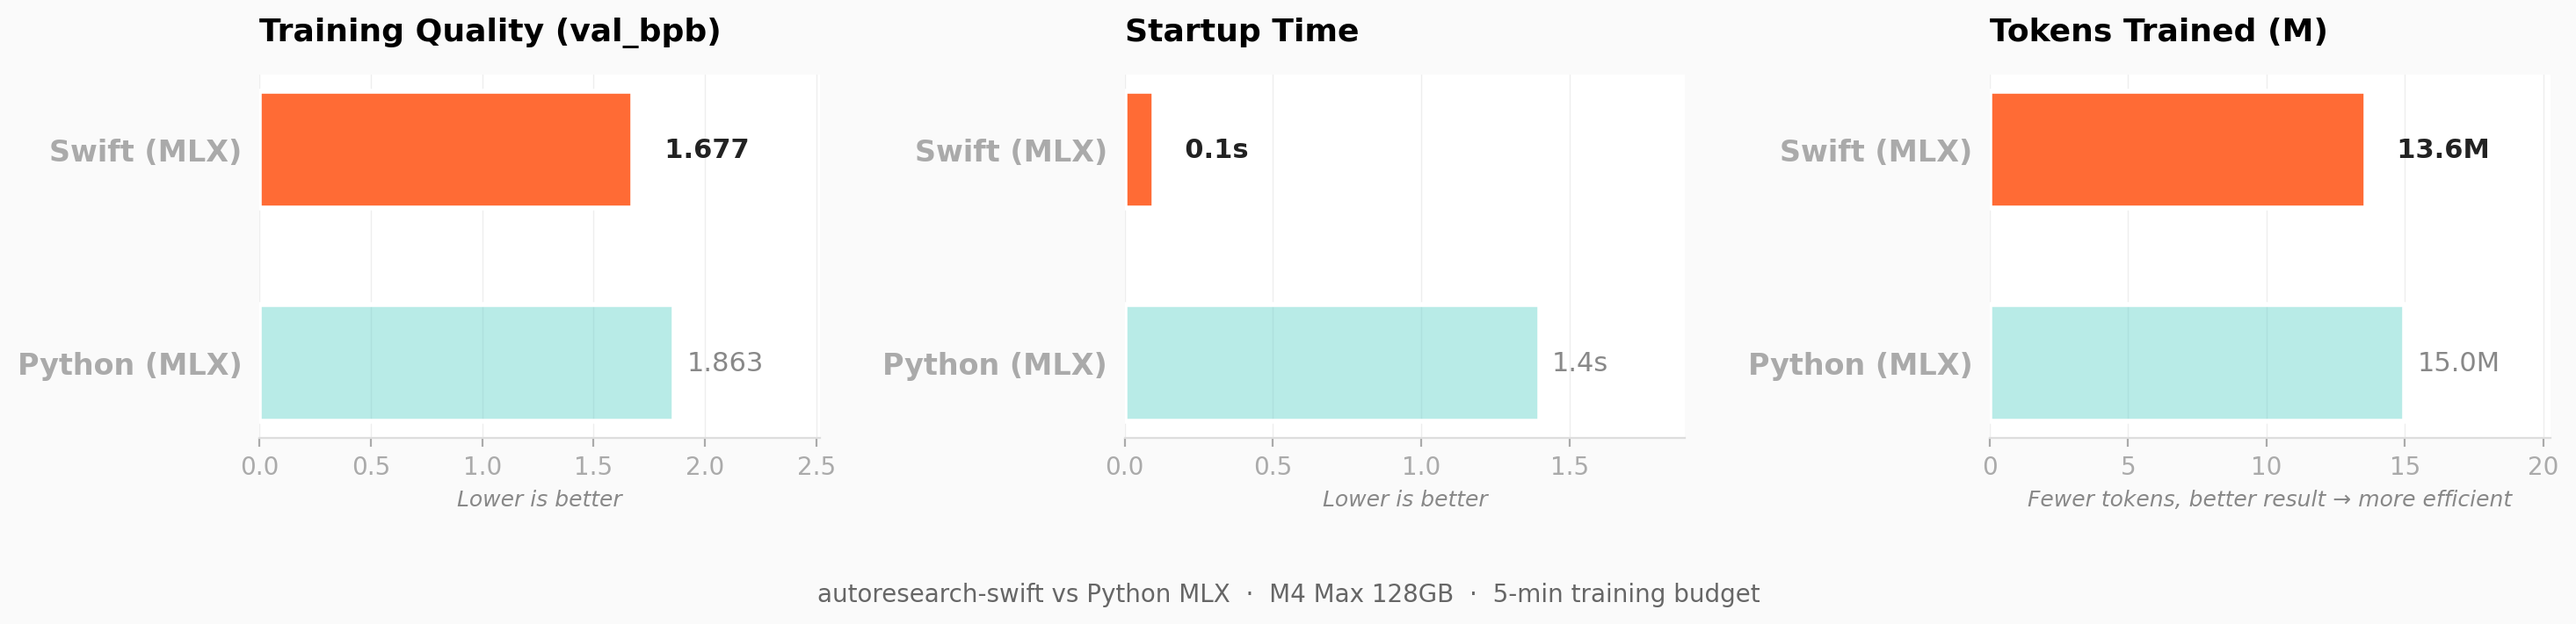
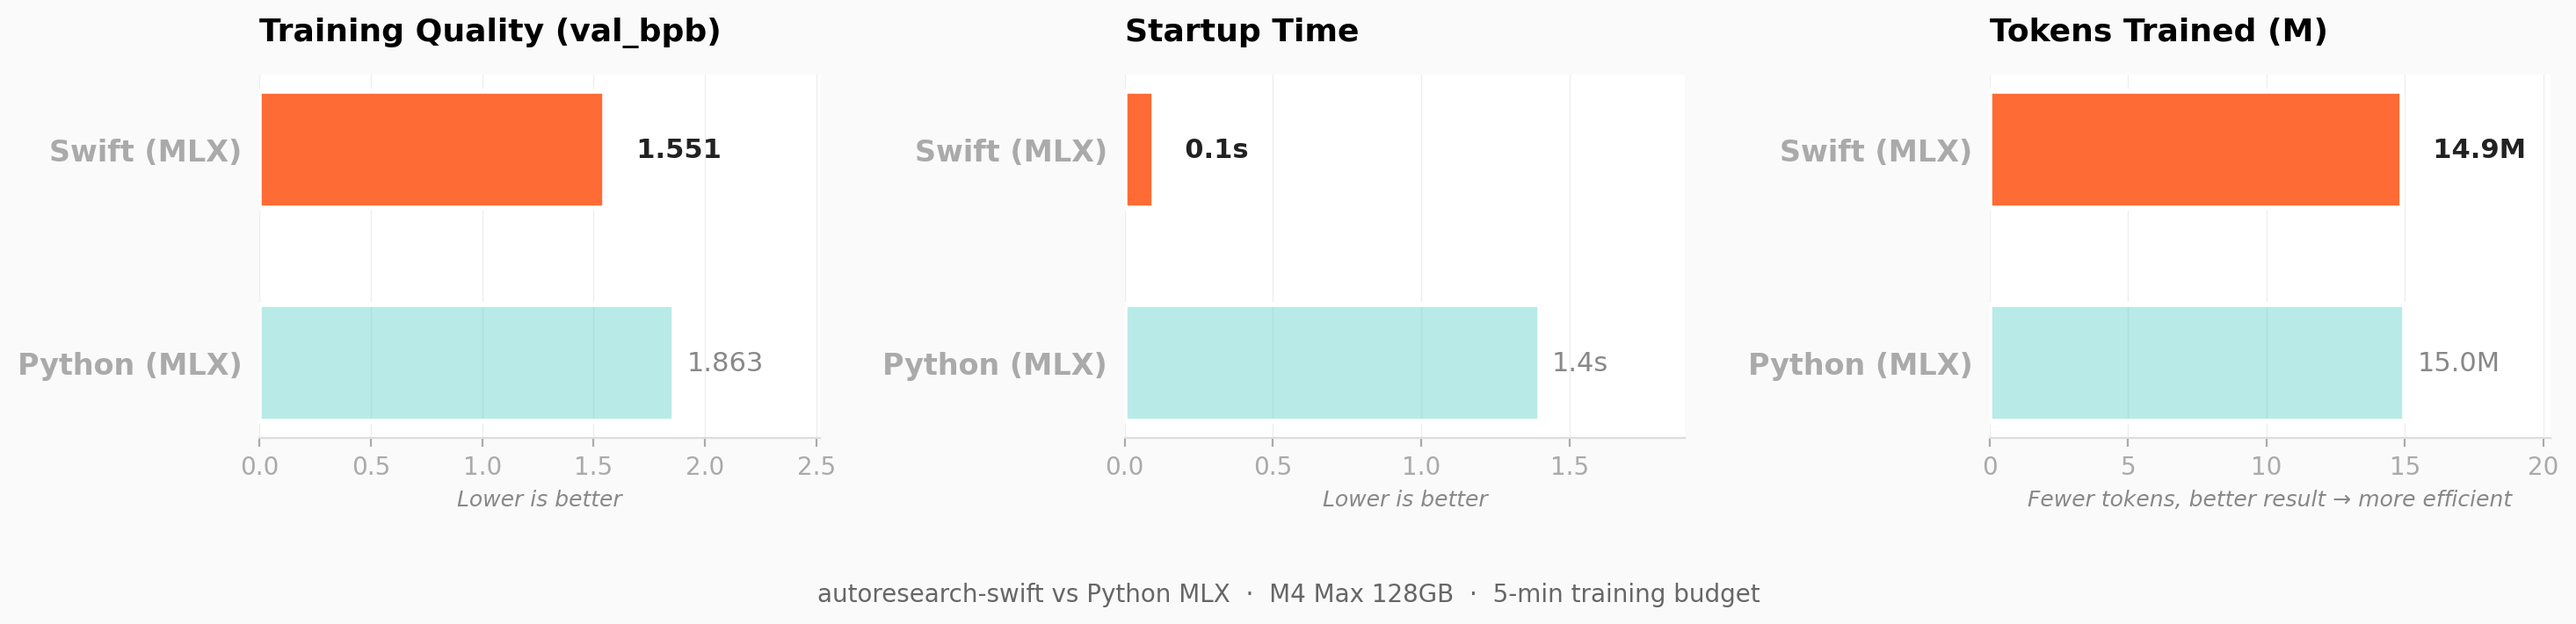
docs: update benchmark to v0.2 results (val_bpb 1.551)

Changed region(s): [[0.9004, 0.1547, 0.9935, 0.3404], [0.2173, 0.1547, 0.3105, 0.3404]]

diff --git a/scripts/benchmark_chart.py b/scripts/benchmark_chart.py
@@ -23,7 +23,7 @@ def make_chart(output_path="benchmark_chart.png"):
         {
             "title": "Training Quality (val_bpb)",
             "subtitle": "Lower is better",
-            "values": [1.677, 1.863],
+            "values": [1.551, 1.863],
             "fmt": ".3f",
             "invert": True,  # lower is better → highlight the lower bar
         },
@@ -38,7 +38,7 @@ def make_chart(output_path="benchmark_chart.png"):
         {
             "title": "Tokens Trained (M)",
             "subtitle": "Fewer tokens, better result → more efficient",
-            "values": [13.6, 15.0],
+            "values": [14.9, 15.0],
             "fmt": ".1f",
             "suffix": "M",
             "invert": True,

diff --git a/README.md b/README.md
@@ -11,7 +11,7 @@ Same idea as the original — fixed 5-minute time budget, one metric (`val_bpb`)
 | Startup | **0.1s** | ~1.4s | ~5s |
 | Optimizer | **Muon + AdamW** | AdamW only | Muon + AdamW |
 | Runtime deps | None | Python + MLX | Python + PyTorch + CUDA |
-| val_bpb (5 min, depth=4) | **1.677** | 1.863 | N/A (different HW) |
+| val_bpb (5 min, depth=4) | **1.551** | 1.863 | N/A (different HW) |
 
 The Muon optimizer gives ~11% better training quality on the same budget. Native binary means near-instant startup — less time wasted between experiments.
 
@@ -23,12 +23,12 @@ Same config, same data, same 5-minute training budget:
 
 | | Swift | Python MLX |
 | --- | --- | --- |
-| **val_bpb** (lower = better) | **1.677** | 1.863 |
+| **val_bpb** (lower = better) | **1.551** | 1.863 |
 | Optimizer | **Muon + AdamW** | AdamW only |
 | Startup to first step | **0.1s** | 1.4s |
 | Runtime dependencies | **0** (single binary) | Python + MLX + NumPy |
 
-Swift achieves **11% better val_bpb** on the same 5-minute budget. The difference comes from the Muon optimizer — it orthogonalizes gradients before each update, so the model learns more per step. The Python MLX port only has AdamW.
+Swift achieves **17% better val_bpb** on the same 5-minute budget. The difference comes from the Muon optimizer — it orthogonalizes gradients before each update, so the model learns more per step. The Python MLX port only has AdamW.
 
 > Following the original's design, results are hardware-specific. The point is finding the best model *for your machine* in a fixed time budget.
 
